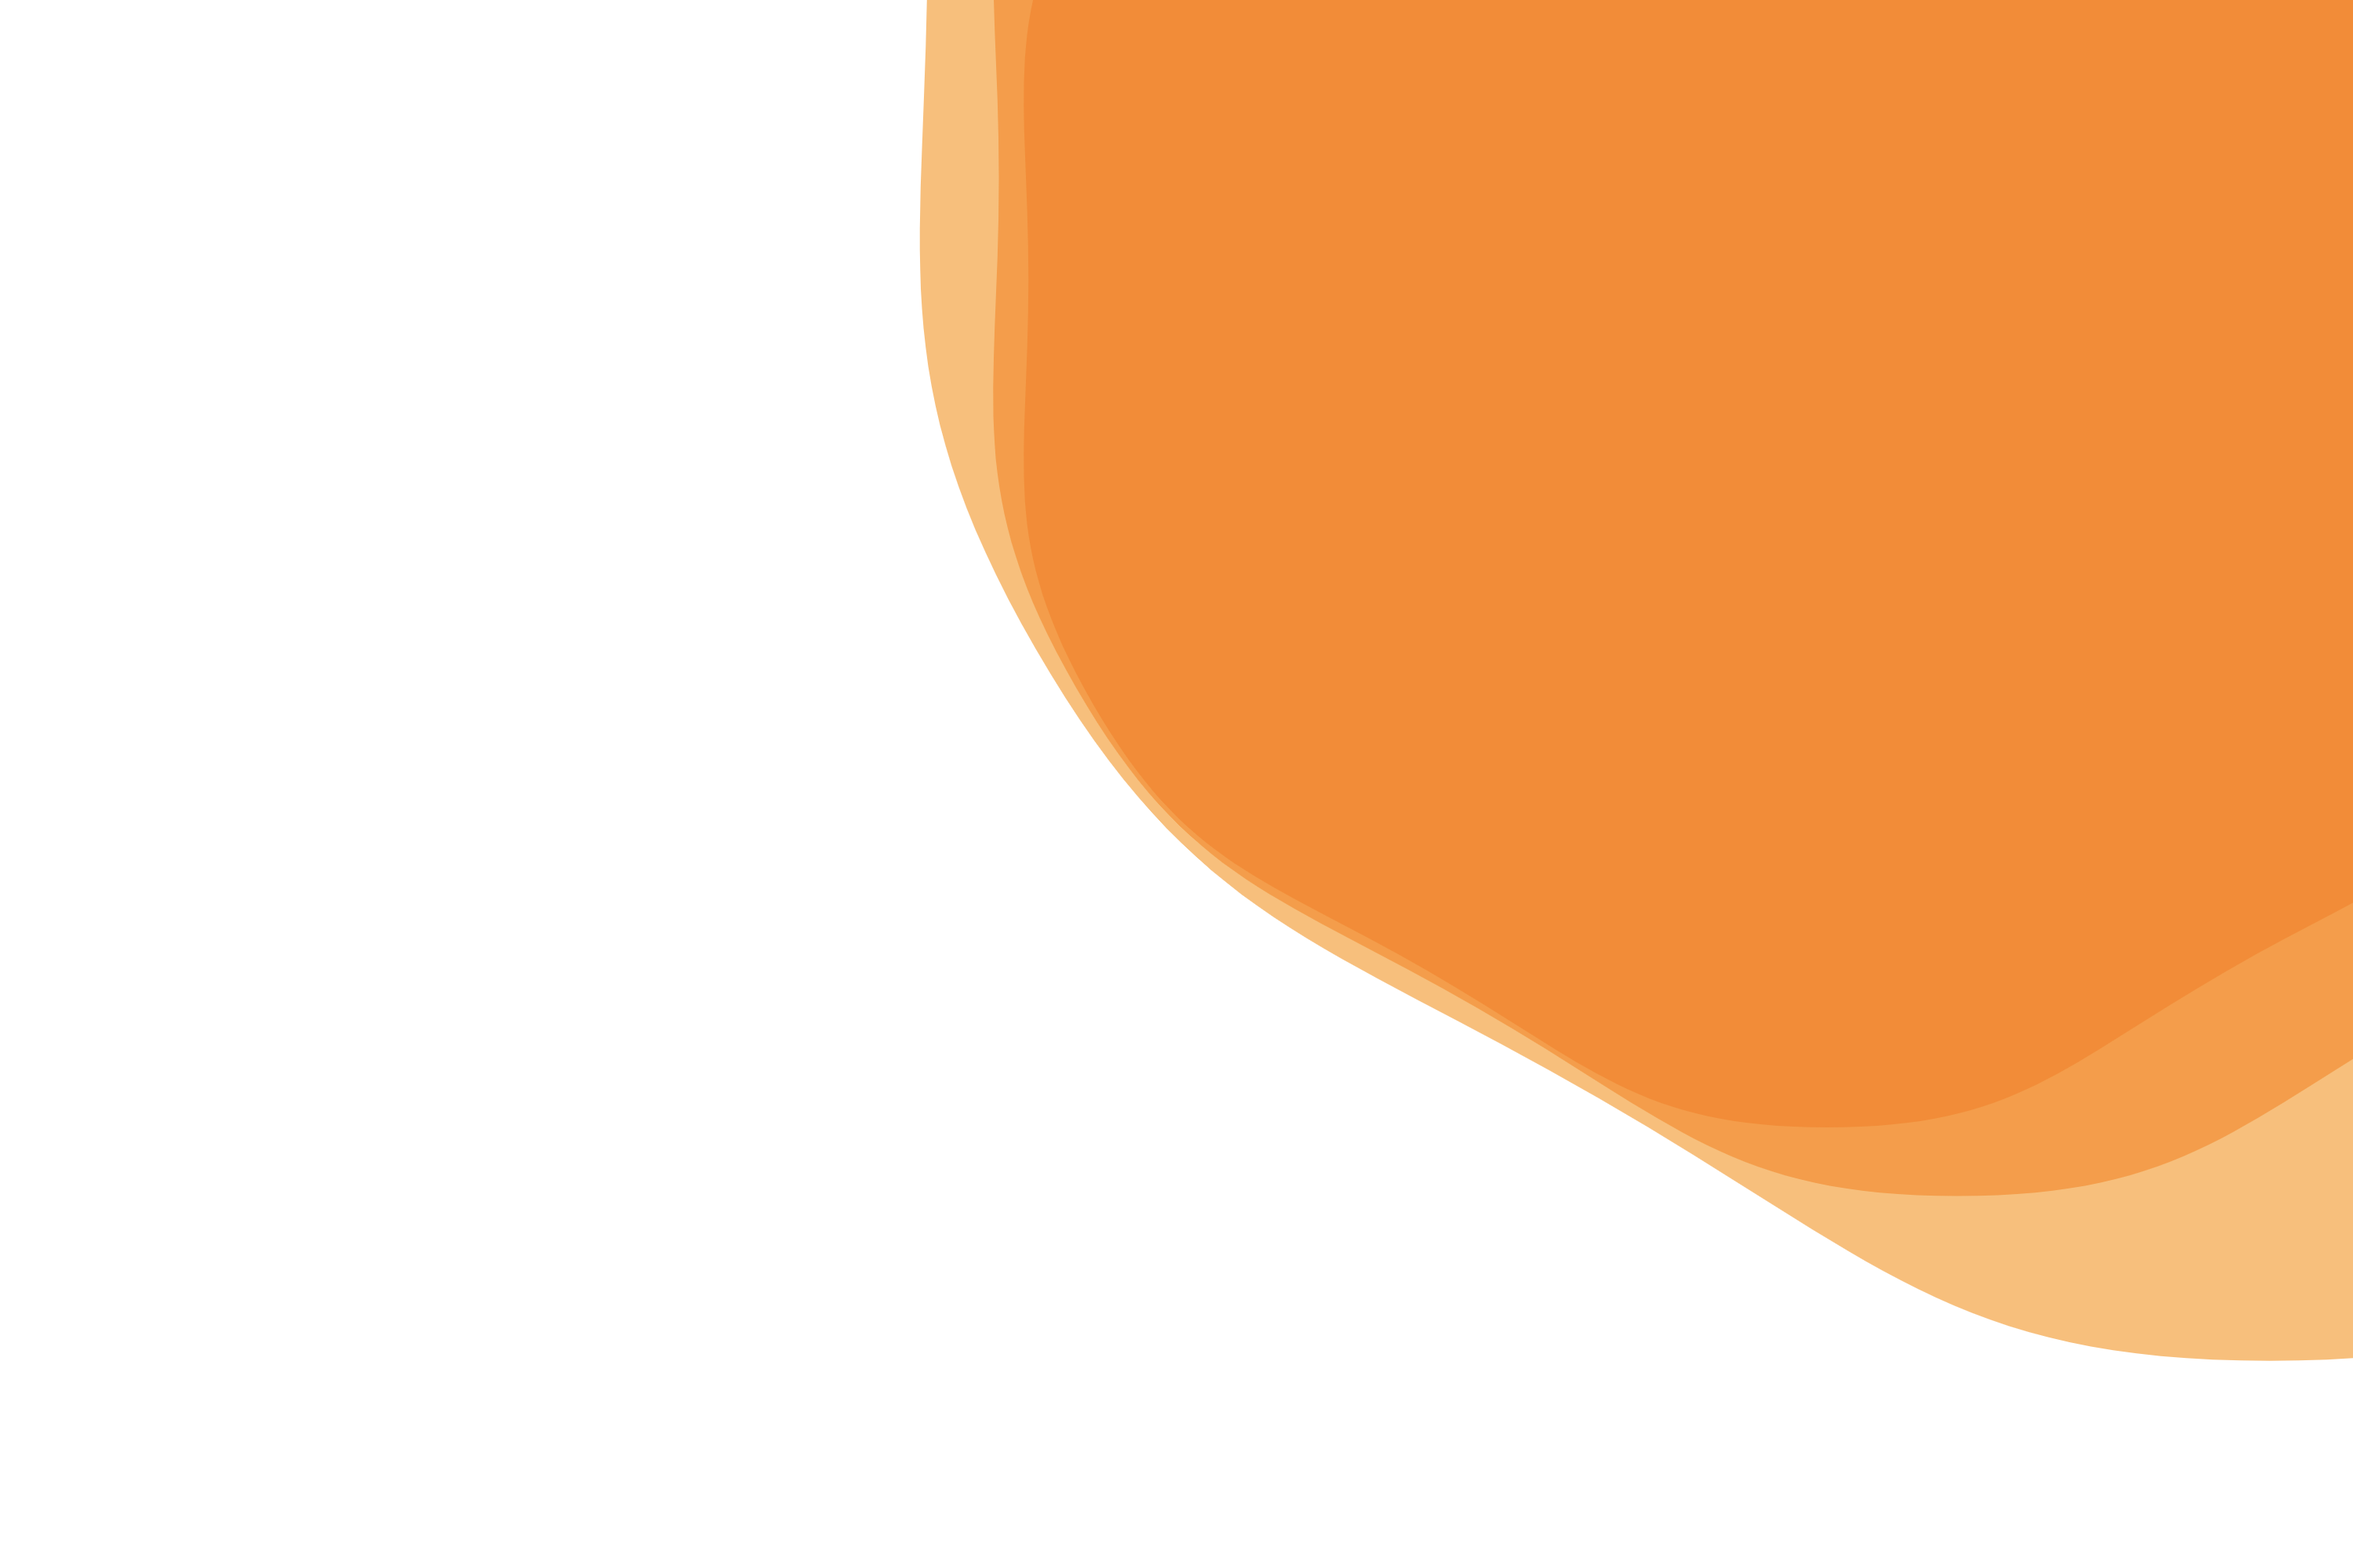
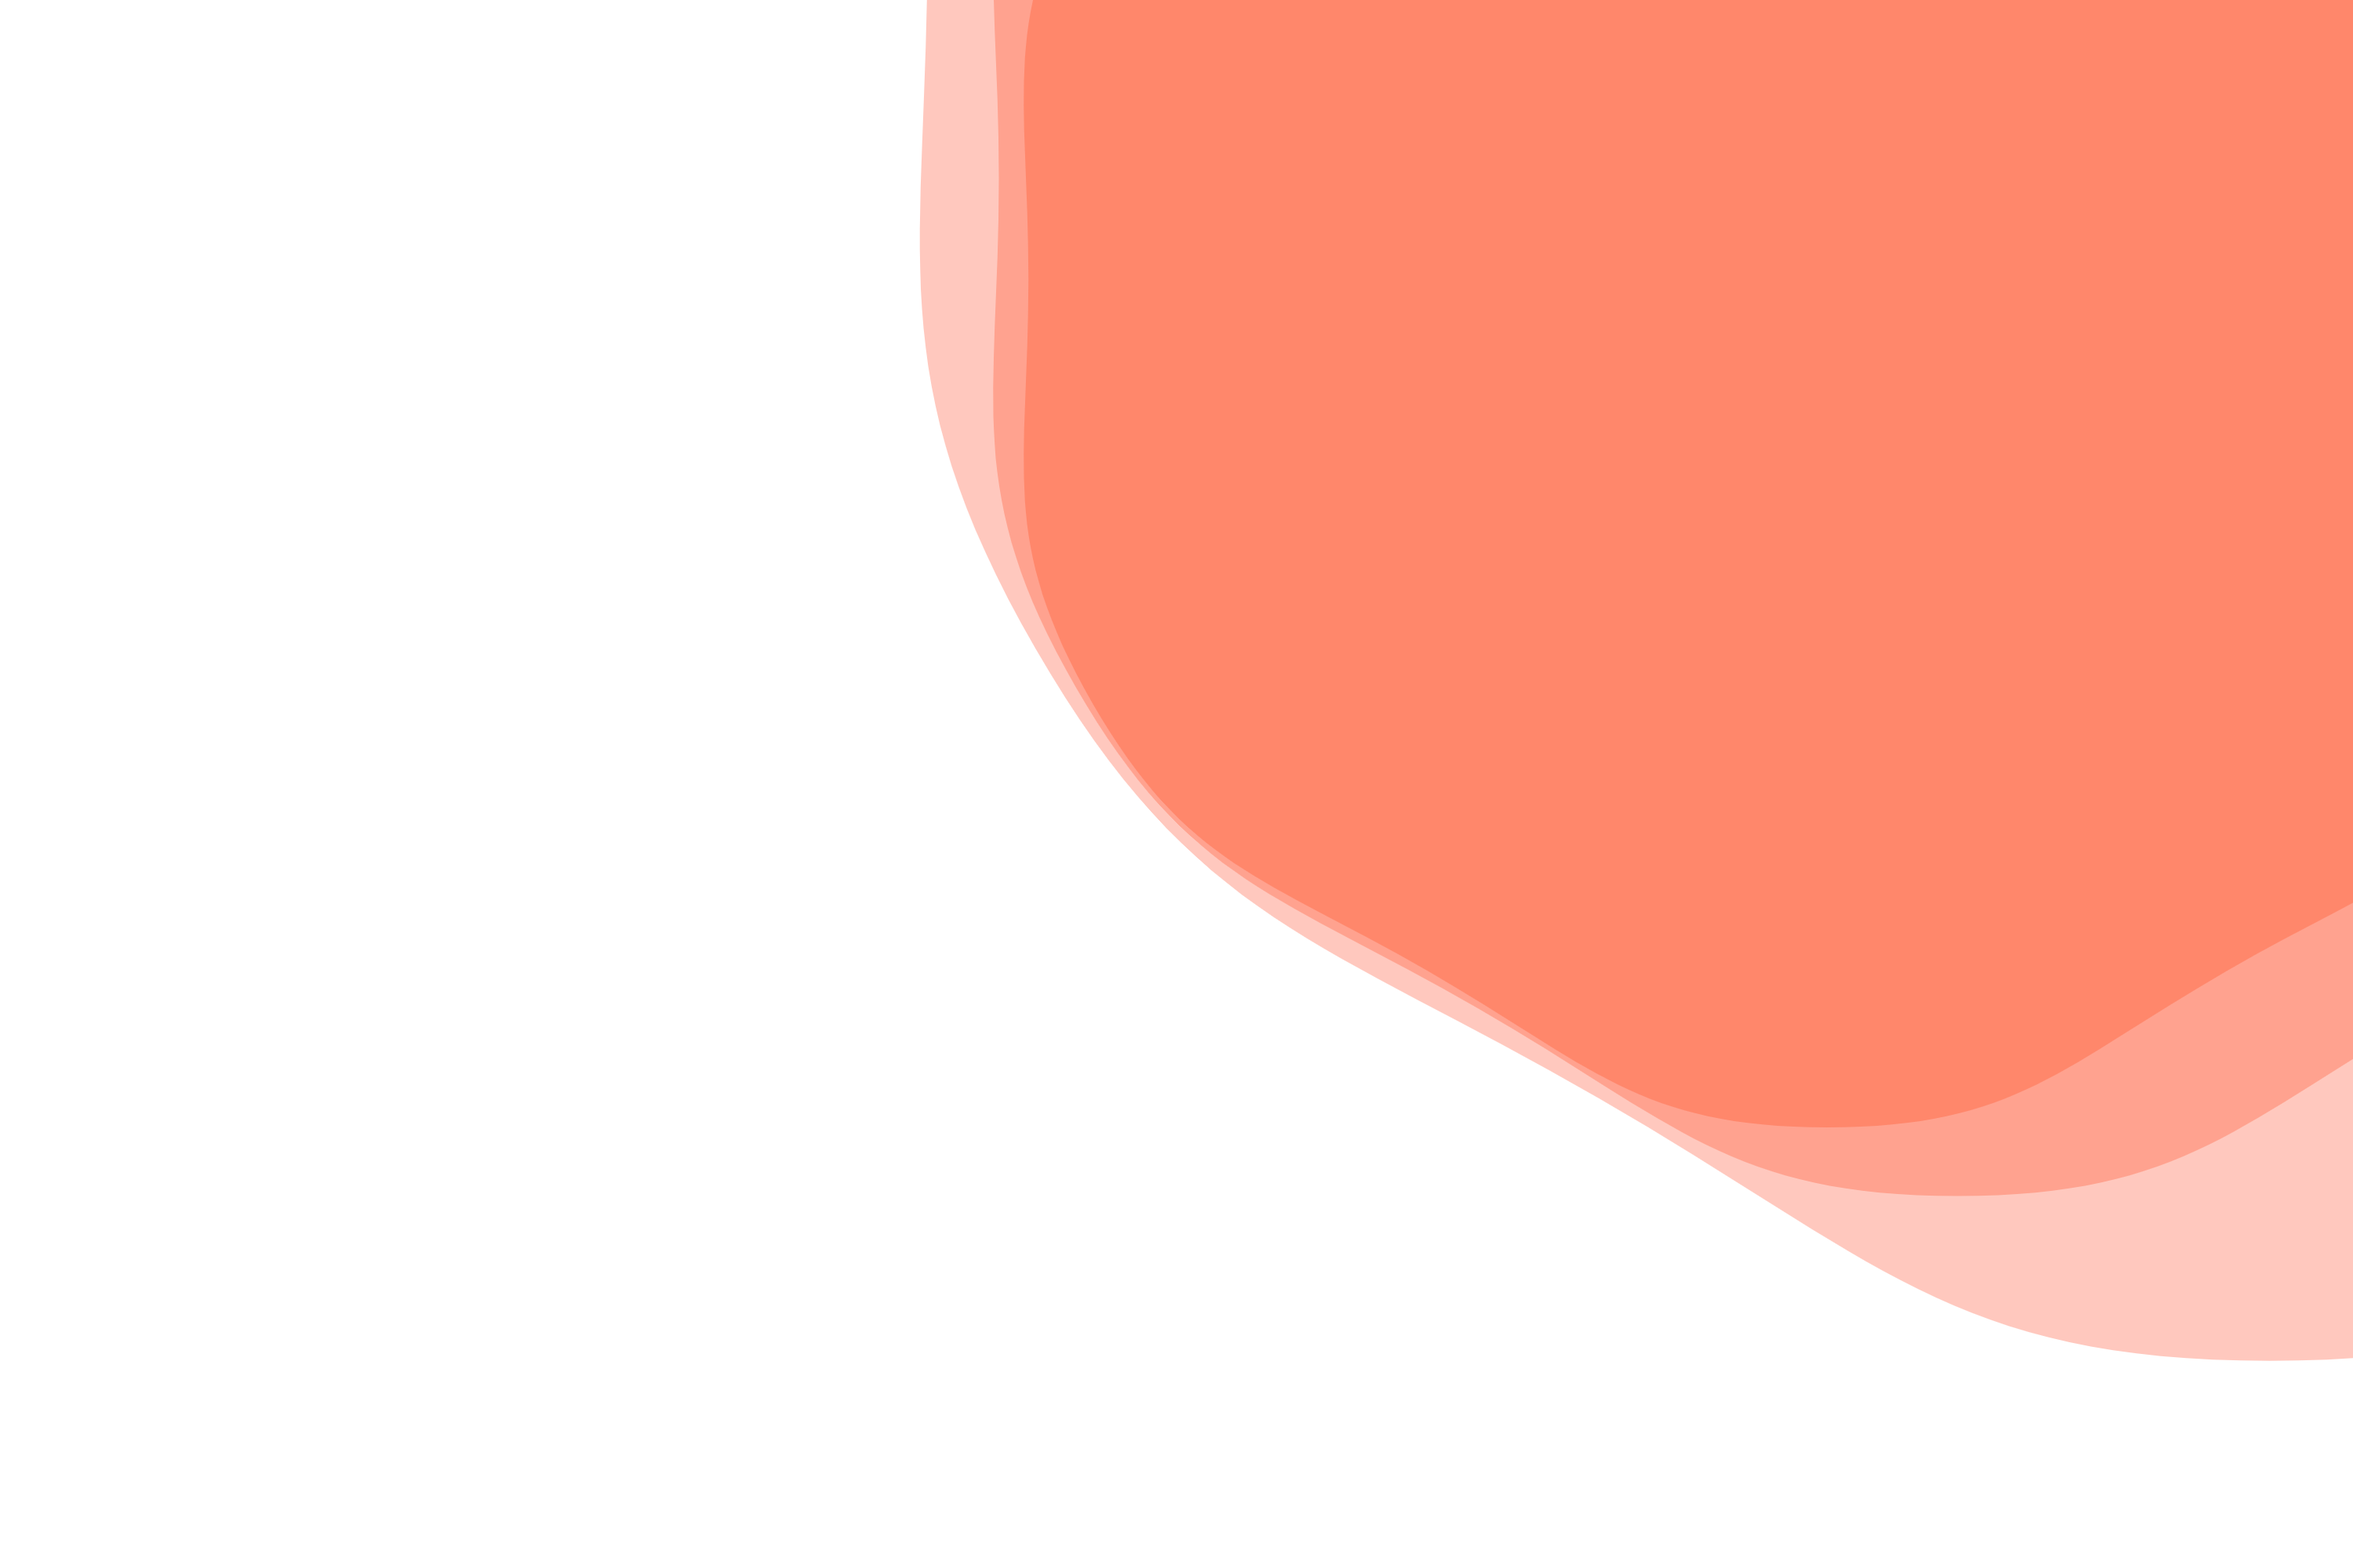
Enable theme 1

diff --git a/app/src/views/search/SearchPage.tsx b/app/src/views/search/SearchPage.tsx
@@ -79,7 +79,7 @@ export default class SearchPage extends React.Component<SearchProps, SearchState
 
   componentDidMount() {
     win.on('resize', this.throttle(this.onResize, 1000).bind(this, win))
-    $tools.setTheme(6)
+    $tools.setTheme(1)
   }
   setInputValue(e: any) {
     this.setState({
